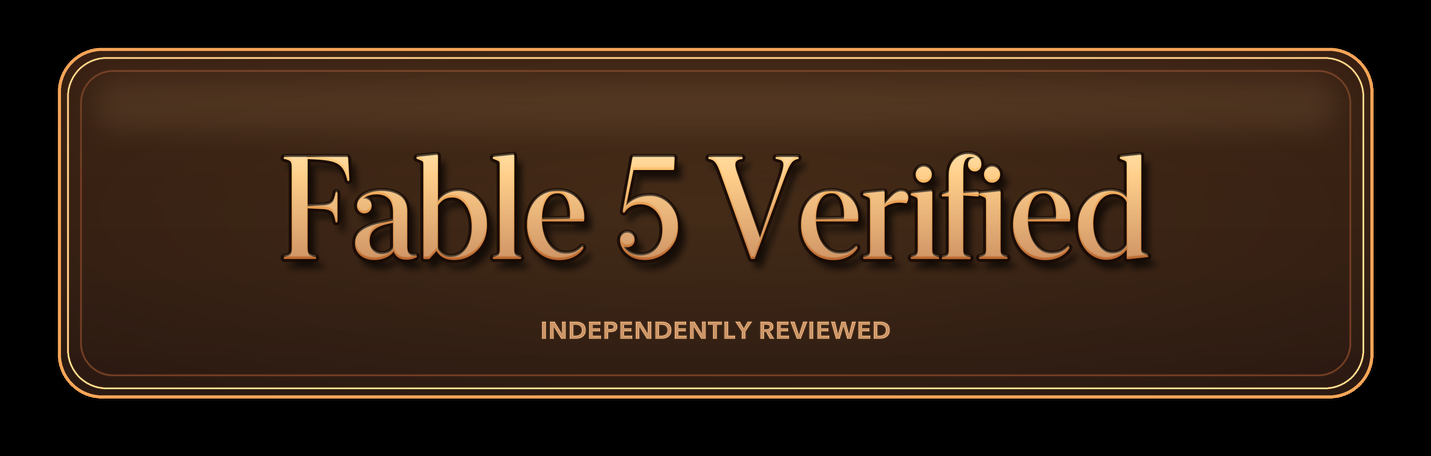
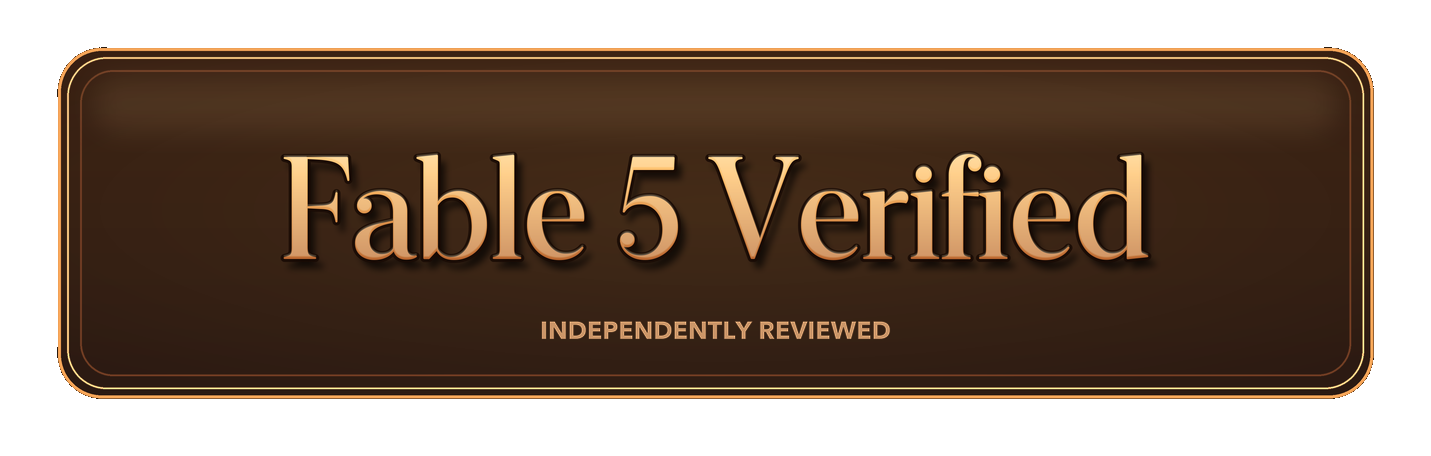
更新 README 截图与透明徽章

Changed region(s): [[0.0, 0.0, 1.0, 1.0]]

diff --git a/README.zh-CN.md b/README.zh-CN.md
@@ -33,11 +33,7 @@ DataLayer Studio 是独立项目，不隶属于 Telemetry Overlay，也未获得
 
 | 实时预览 | 排布浮层 | 导出透明浮层 |
 | --- | --- | --- |
-| <img src="assets/appstore/v0.1.2/zh-Hans/desktop/01-preview-overlay.png" alt="DataLayer Studio 实时浮层预览" width="100%"> | <img src="assets/appstore/v0.1.2/zh-Hans/desktop/02-arrange-gauges.png" alt="DataLayer Studio 浮层排布界面" width="100%"> | <img src="assets/appstore/v0.1.2/zh-Hans/desktop/03-export-alpha.png" alt="DataLayer Studio 透明浮层导出界面" width="100%"> |
-
-| 数据对比 | 数据指标 |
-| --- | --- |
-| <img src="assets/appstore/v0.1.2/zh-Hans/desktop/04-data-layer-comparison.png" alt="DataLayer Studio 数据层效果对比" width="100%"> | <img src="assets/appstore/v0.1.2/zh-Hans/desktop/05-data-layer-metrics.png" alt="DataLayer Studio 支持的数据指标" width="100%"> |
+| <img src="assets/appstore/v0.1.6/zh-Hans/desktop/01-preview-overlay.png" alt="DataLayer Studio 实时浮层预览" width="100%"> | <img src="assets/appstore/v0.1.6/zh-Hans/desktop/02-arrange-gauges.png" alt="DataLayer Studio 浮层排布界面" width="100%"> | <img src="assets/appstore/v0.1.6/zh-Hans/desktop/03-export-alpha.png" alt="DataLayer Studio 透明浮层导出界面" width="100%"> |
 
 ## 快速开始
 

diff --git a/README.md b/README.md
@@ -40,7 +40,7 @@ not include proprietary code or assets from Telemetry Overlay.
 
 | Live overlay preview | Arrange gauges | Export alpha overlay |
 | --- | --- | --- |
-| <img src="assets/appstore/v0.1.2/en-US/desktop/01-preview-overlay.png" alt="DataLayer Studio live overlay preview" width="100%"> | <img src="assets/appstore/v0.1.2/en-US/desktop/02-arrange-gauges.png" alt="DataLayer Studio gauge arrangement screen" width="100%"> | <img src="assets/appstore/v0.1.2/en-US/desktop/03-export-alpha.png" alt="DataLayer Studio alpha overlay export screen" width="100%"> |
+| <img src="assets/appstore/v0.1.6/en-US/desktop/01-preview-overlay.png" alt="DataLayer Studio live overlay preview" width="100%"> | <img src="assets/appstore/v0.1.6/en-US/desktop/02-arrange-gauges.png" alt="DataLayer Studio gauge arrangement screen" width="100%"> | <img src="assets/appstore/v0.1.6/en-US/desktop/03-export-alpha.png" alt="DataLayer Studio alpha overlay export screen" width="100%"> |
 
 ## Quick start
 
